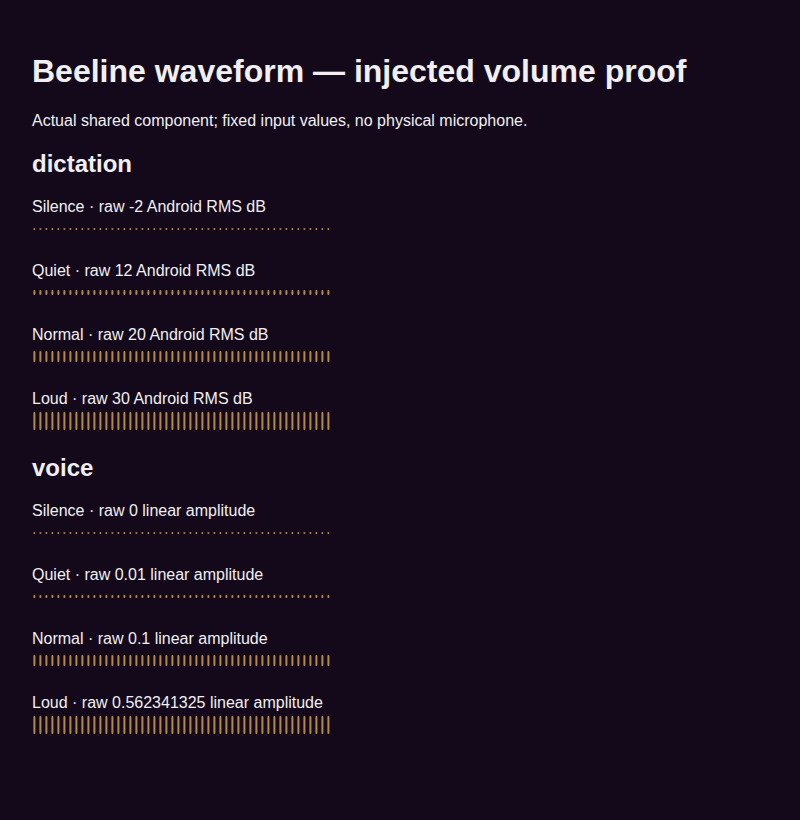
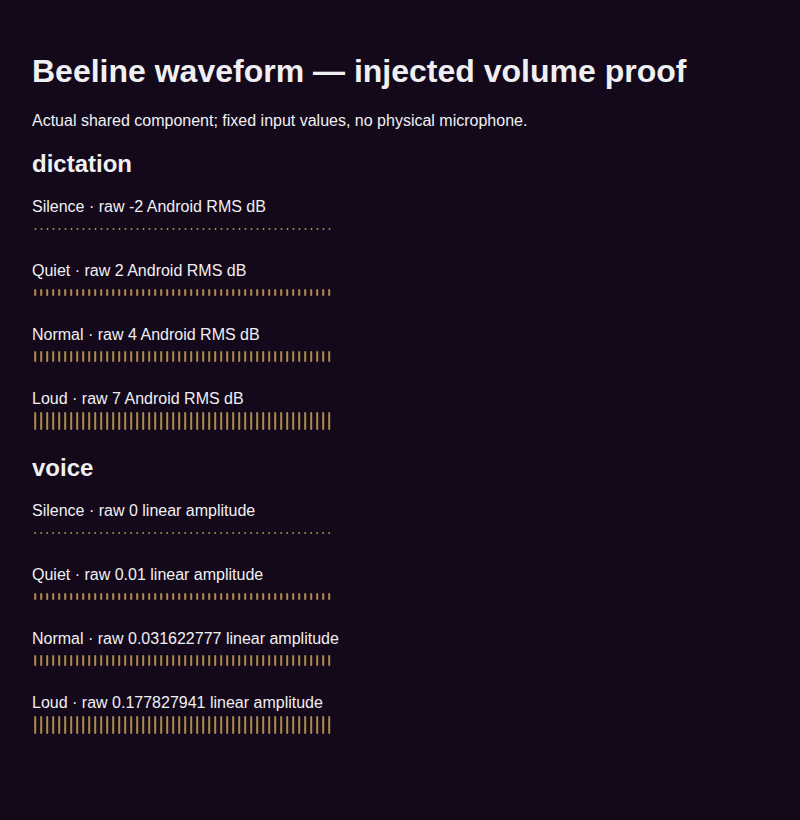
fix(mobile): restore visible speech waveform levels

diff --git a/apps/mobile/sources/buzz/waveform-level.test.ts b/apps/mobile/sources/buzz/waveform-level.test.ts
@@ -2,14 +2,33 @@ import { describe, expect, it } from 'vitest';
 import { dictationWaveformLevel, smoothWaveformLevel, voiceWaveformLevel, waveformLevelFromDb } from './waveform-level';
 
 describe('waveform volume mapping', () => {
-  it('keeps silence and room noise flat, then distinguishes quiet, normal and loud speech', () => {
-    const levels = [-80, -55, -40, -20, -5].map(waveformLevelFromDb);
-    expect(levels.slice(0, 2)).toEqual([0, 0]);
-    expect(levels[2]).toBeGreaterThan(0);
-    expect(levels[2]).toBeLessThan(0.2);
-    expect(levels[3]).toBeGreaterThan(0.5);
-    expect(levels[3]).toBeLessThan(0.7);
-    expect(levels[4]).toBe(1);
+  it.each([
+    ['silence', -60, -2, 0, 0, 0.05],
+    ['quiet', -40, 2, 0.01, 0.25, 0.4],
+    ['normal', -30, 4, 10 ** (-30 / 20), 0.5, 0.7],
+    ['loud', -15, 7, 10 ** (-15 / 20), 1, 1],
+  ])('%s uses native-range inputs and reaches its display band', (_, db, raw, amplitude, min, max) => {
+    for (const level of [waveformLevelFromDb(db), dictationWaveformLevel(raw, 'ios'),
+      dictationWaveformLevel(raw, 'android'), voiceWaveformLevel(amplitude)]) {
+      expect(level).toBeGreaterThanOrEqual(min);
+      expect(level).toBeLessThanOrEqual(max);
+    }
+  });
+
+  it.each(['android', 'ios'])('normal %s speech stays visible without saturating between syllables', platform => {
+    const levels = [3.5, 4, 4.5].map(value => dictationWaveformLevel(value, platform));
+    expect(levels[0]).toBeGreaterThan(0.4);
+    expect(levels[2]).toBeLessThan(0.8);
+    expect(levels[0]).toBeLessThan(levels[1]);
+    expect(levels[1]).toBeLessThan(levels[2]);
+  });
+
+  it('normal voice speech moves between syllables without flattening or saturation', () => {
+    const levels = [-32.5, -30, -27.5].map(db => voiceWaveformLevel(10 ** (db / 20)));
+    expect(levels[0]).toBeGreaterThan(0.4);
+    expect(levels[2]).toBeLessThan(0.8);
+    expect(levels[0]).toBeLessThan(levels[1]);
+    expect(levels[1]).toBeLessThan(levels[2]);
   });
 
   it('uses the same dB curve for iOS dictation and linear voice amplitudes', () => {
@@ -17,20 +36,6 @@ describe('waveform volume mapping', () => {
       expect(dictationWaveformLevel((db + 60) / 5 - 2, 'ios')).toBeCloseTo(waveformLevelFromDb(db));
       expect(voiceWaveformLevel(10 ** (db / 20))).toBeCloseTo(waveformLevelFromDb(db));
     }
-  });
-
-  it('Reproduction WL1: Android values above 10 retain distinct heights', () => {
-    const raw = [-2, 12, 20, 30];
-    const levels = raw.map(value => dictationWaveformLevel(value, 'android'));
-    console.info('Reproduction WL1 injected Android RMS dB:', raw.map((value, index) => ({
-      raw: value, oldHeight: 2 + Math.max(0, Math.min(1, (value + 2) / 12)) * 16,
-      height: 2 + levels[index] * 16,
-    })));
-    expect(levels[0]).toBe(0);
-    expect(levels[1]).toBeGreaterThan(0);
-    expect(levels[1]).toBeLessThan(levels[2]);
-    expect(levels[2]).toBeLessThan(1);
-    expect(levels[3]).toBe(1);
   });
 
   it('rejects invalid readings and releases smoothly to silence', () => {

diff --git a/apps/mobile/sources/buzz/waveform-level.ts b/apps/mobile/sources/buzz/waveform-level.ts
@@ -1,14 +1,14 @@
-// Tune source envelopes and display response here. Android's envelope is an
-// assumption; the owner will check it on their phone after the build ships.
+// Source units come from expo-speech-recognition 3.1.3 and LiveKit.
+// Keep display gain fixed so syllables retain their relative loudness.
 const DISPLAY_FLOOR_DB = -50;
-const DISPLAY_CEILING_DB = -5;
-const PERCEPTUAL_EXPONENT = 1.5;
+const DISPLAY_CEILING_DB = -15;
+const PERCEPTUAL_EXPONENT = 1;
 const SOURCE_FLOOR_DB = -60;
 const SOURCE_CEILING_DB = 0;
 const IOS_VOLUME_MIN = -2;
 const IOS_VOLUME_MAX = 10;
 const ANDROID_RMS_MIN_DB = -2;
-const ANDROID_RMS_MAX_DB = 30;
+const ANDROID_RMS_MAX_DB = 10;
 const ATTACK_WEIGHT = 0.7;
 const RELEASE_WEIGHT = 0.5;
 
@@ -28,7 +28,9 @@ export function voiceWaveformLevel(amplitude: number): number {
 export function dictationWaveformLevel(value: number, platform: string): number {
   // expo-speech-recognition iOS scales -60..0 dBFS to -2..10.
   // Android forwards recognizer-relative RMS dB without that scaling. Use a
-  // fixed -2..30 envelope; recognizer/device calibration is not standardized.
+  // package-documented -2..10 event envelope, not the old assumed -2..30.
+  // Android RMS is recognizer-relative, not calibrated dBFS; this conversion
+  // sets display gain and does not claim identical microphone calibration.
   const min = platform === 'android' ? ANDROID_RMS_MIN_DB : IOS_VOLUME_MIN;
   const max = platform === 'android' ? ANDROID_RMS_MAX_DB : IOS_VOLUME_MAX;
   const db = SOURCE_FLOOR_DB + (value - min) / (max - min) * (SOURCE_CEILING_DB - SOURCE_FLOOR_DB);

diff --git a/apps/mobile/sources/components/buzz/ConversationComposer.speech.test.tsx b/apps/mobile/sources/components/buzz/ConversationComposer.speech.test.tsx
@@ -368,14 +368,14 @@ describe('listening flow', () => {
     expect(mic.props.accessibilityHint).toBe('Stops dictation and sends');
   });
 
-  it('Reproduction WL1: dictation bars distinguish quiet, normal and loud Android input', async () => {
+  it('Reproduction WL2: documented-range Android speech has visible varying bars', async () => {
     vi.useFakeTimers();
     try {
       const { renderer } = render();
       await act(async () => renderer.root.findByProps({ testID: 'chat-mic' }).props.onPress());
       await act(async () => {});
       await act(async () => vi.advanceTimersByTime(WAVEFORM_SAMPLE_MS));
-      for (const value of [12, 20, 30]) {
+      for (const value of [2, 4, 7]) {
         await act(async () => fireEvent('volumechange', { value }));
         await act(async () => vi.advanceTimersByTime(WAVEFORM_SAMPLE_MS));
       }
@@ -387,11 +387,12 @@ describe('listening flow', () => {
       );
       // Each bar is added a sample before it glides into view.
       expect(heights.slice(0, 2)).toEqual([2, 2]);
-      expect(heights[2]).toBeGreaterThan(2);
+      expect(heights[2]).toBeGreaterThan(5);
+      expect(heights[3]).toBeGreaterThan(9);
       expect(heights[2]).toBeLessThan(heights[3]);
       expect(heights[3]).toBeLessThan(heights[4]);
       expect(heights[4]).toBeLessThan(18);
-      console.info('Reproduction WL1 composer mic -> injected RMS -2/12/20/30 -> bar heights', heights);
+      console.info('Reproduction WL2 composer mic -> documented-range RMS -2/2/4/7 -> bar heights', heights);
     } finally {
       vi.useRealTimers();
     }

diff --git a/apps/mobile/evidence/waveform-level/README.md b/apps/mobile/evidence/waveform-level/README.md
@@ -1,27 +1,43 @@
-# Waveform level proof
+# Waveform retune proof
 
-Reproduction WL1 uses injected Android `volumechange` events. Press the composer microphone, then emit raw values -2, 12, 20 and 30, advancing the waveform sample timer after each. Before the fix, the three non-silent values all produce the maximum 18 px bar. After the fix they produce distinct increasing bars. `ConversationComposer.speech.test.tsx` exercises that complete composer path and prints its smoothed heights.
+## Reproduction WL2
 
-The fixed Android mapping produces unsmoothed heights 2, 5.472, 11.259 and 18 px respectively. The shared curve uses -50..-5 dBFS raised to 1.5, followed by light attack/release smoothing in the waveform. Voice amplitude is converted with `20 * log10(amplitude)`; iOS dictation reverses expo-speech-recognition's -60..0 dBFS to -2..10 scaling. Android's recognizer-relative RMS dB is mapped from an assumed -2..30 envelope to -60..0 dBFS. There is no adaptive normalization.
+Press the Android composer microphone, deliver `volumechange` values -2 (silence), 2 (quiet), 4 (normal), and 7 (loud), and advance the 120 ms waveform sampler between inputs. `ConversationComposer.speech.test.tsx` exercises this full microphone → speech listener → composer → rendered waveform path.
 
-## Browser evidence
+Running that regression against the pre-retune mapping fails: the quiet bar is exactly 2 px (flat), and normal input also remains at the floor because the old Android -2..30 envelope converts 4 to -48.75 display dB. This is an injected reproduction of the reported symptom, not a recording from the owner's phone.
 
-`injected-volumes.png` captures the **actual shared React Native Web waveform component**, built from this checkout, in local Chrome at 800 × 820. It shows fixed injected input levels for dictation and voice after seven seconds of sampling. `browser-readings.json` records actual rendered bar heights. Run `node apps/mobile/scripts/render-waveform-proof.mjs`, open http://127.0.0.1:4189 and allow seven seconds for the bars to enter the field.
+The retuned composer regression passes and prints increasing smoothed heights. The unit table additionally checks silence, quiet, normal and loud bands on iOS, Android and voice, and verifies movement between normal syllables without saturation.
 
-This is an injected-level component proof, not a physical audio measurement or a production deployment. The signed-in production Room at web.usebeeline.app was inspected through Trusty Squire; it offers no dictation microphone, consistent with `speech-recognition-adapter.ts` returning null on web. That session was already signed in as the owner; a GitHub reviewer-bypass login was **not obtained**. Production varying-audio proof remains outstanding; this change does not add web dictation or deploy a release.
+## Input units and cause
 
-## Native coverage and calibration limits
+Checked the installed expo-speech-recognition 3.1.3 native source:
 
-Started the isolated `dictation_api34` Android emulator with `beeline emulator`. It booted successfully, but its host audio driver reported `Could not init 'pa' audio driver`, and no Beeline application was installed in the fresh emulator data. Physical silence/quiet/normal/loud microphone samples were not obtained. No iOS device was available.
+- iOS `ExpoSpeechRecognizer.swift` computes `20 * log10` of the PCM positive peak, clamps -60..0 dBFS and scales it to -2..10. The adapter reverses that scaling. This is peak metering, not RMS.
+- Android `ExpoSpeechService.kt:onRmsChanged` forwards the recognizer's RMS dB unchanged. The package's [event contract](https://github.com/jamsch/expo-speech-recognition/blob/v3.1.3/src/ExpoSpeechRecognitionModule.types.ts) documents -2..10, with readings below 0 inaudible. The previous -2..30 display envelope was an assumption, not a native conversion. Android readings are recognizer-relative; the display conversion does not make them calibrated dBFS.
+- LiveKit `Participant.ts` exposes 0..1 `audioLevel`; `Room.ts` assigns speaker levels from server updates. The existing linear-amplitude-to-dB adapter remains in use.
 
-The tested ranges are **injected values**, not measured device calibration: Android -2/12/20/30 RMS dB; iOS equivalent -60/-40/-20/-5 dBFS; LiveKit linear 0/0.01/0.1/0.56234. iOS scaling was checked against the installed expo-speech-recognition 3.1.3 implementation. Android passes recognizer RMS dB through unchanged; its -2..30 display envelope is an assumption and may understate quiet speech on a recognizer with a narrower range. Confirm it on the owner's physical Android microphone before treating it as calibrated.
+Both adapters still use `waveformLevelFromDb`. Its fixed display range is now -50..-15 with a linear display response, rather than -50..-5 raised to 1.5. This restores gain without per-take normalization. No bar count, colour, layout or animation timing changed.
 
-## Accepted proof scope
+## Rendered proof
 
-The commander accepted the disclosed injected proof as sufficient for PR #2416 and waived physical-microphone calibration and production audio proof for this PR. The Android -2..30 dB envelope remains an assumption. The owner will check it on their phone after the build ships. All source envelopes, display range, perceptual exponent and smoothing weights are centralized in `sources/buzz/waveform-level.ts` for tuning.
+`injected-volumes.png` shows the actual shared React Native Web component in local headless Chrome at 800 × 820 after 7.5 seconds of sampling. `browser-readings.json` records the newest rendered bars (browser pixel rounding included):
+
+| Level | Dictation event | Voice amplitude | Display level | Rendered height, both paths |
+| --- | ---: | ---: | ---: | ---: |
+| Silence | -2 | 0 | 0% | 2 px |
+| Quiet | 2 | 0.01 | 28.6% | 6.5625 px |
+| Normal | 4 | 0.031622777 | 57.1% | 11.140625 px |
+| Loud | 7 | 0.177827941 | 100% | 18 px |
+
+Display percentages refer to the existing 16 px dynamic range above the 2 px minimum. Run `node apps/mobile/scripts/render-waveform-proof.mjs`, open http://127.0.0.1:4189 and allow the samples to enter the field.
+
+## Device attempt and limits
+
+This session started an isolated `dictation_api34` emulator through `beeline emulator -avd dictation_api34 -no-window -gpu swiftshader_indirect`. Its host reported `Could not init 'pa' audio driver`; adb remained offline during the capture attempts. No real recorded microphone values were obtained, and no iOS device was attached. Source-backed event-range inputs were used instead. The four speech categories are tuning points within the native range, not measured phone-distance calibration. Recognizer and microphone differences still require observation on a physical phone.
 
 ## Validation
 
-- 84 focused tests pass, including the composer microphone path, silence/finalization behavior, voice local/bridge source selection, fixed-value mapping and smoothing.
-- Root `npm run typecheck` passes after installing the missing root dependencies.
-- No layout changes.
+- `npm run corner:prepare` passed.
+- 90 focused tests pass across waveform mapping, speech input, voice source selection and the full composer microphone path.
+- Root `npm run typecheck` passed.
+- Browser component rendering confirmed the four heights above.
